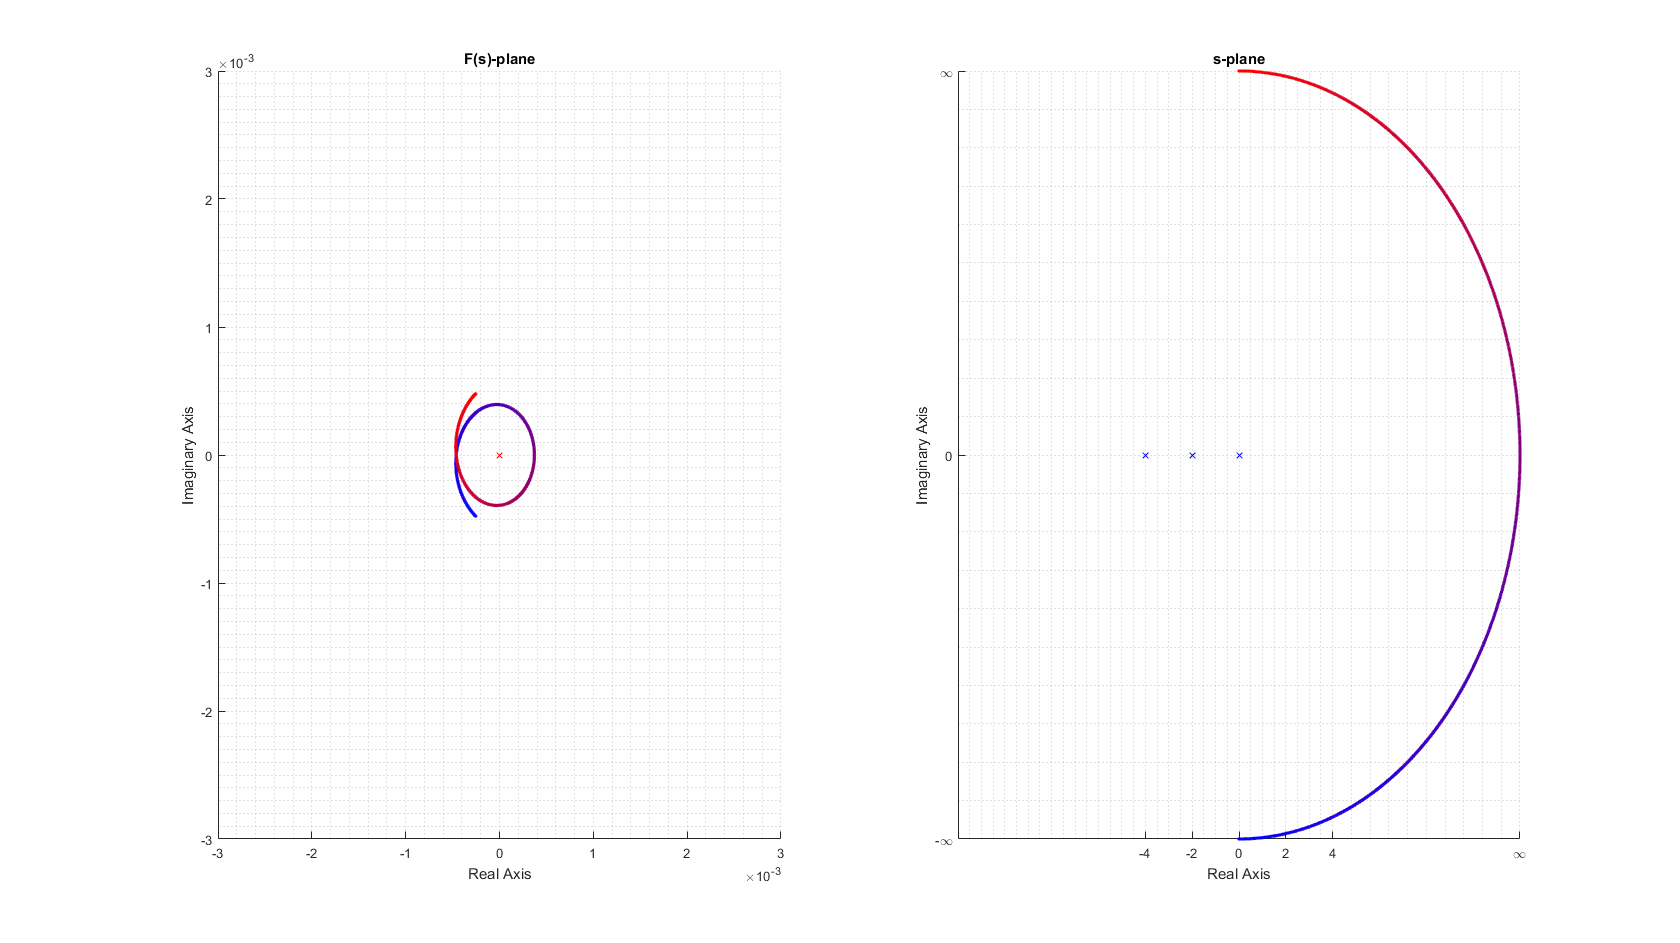
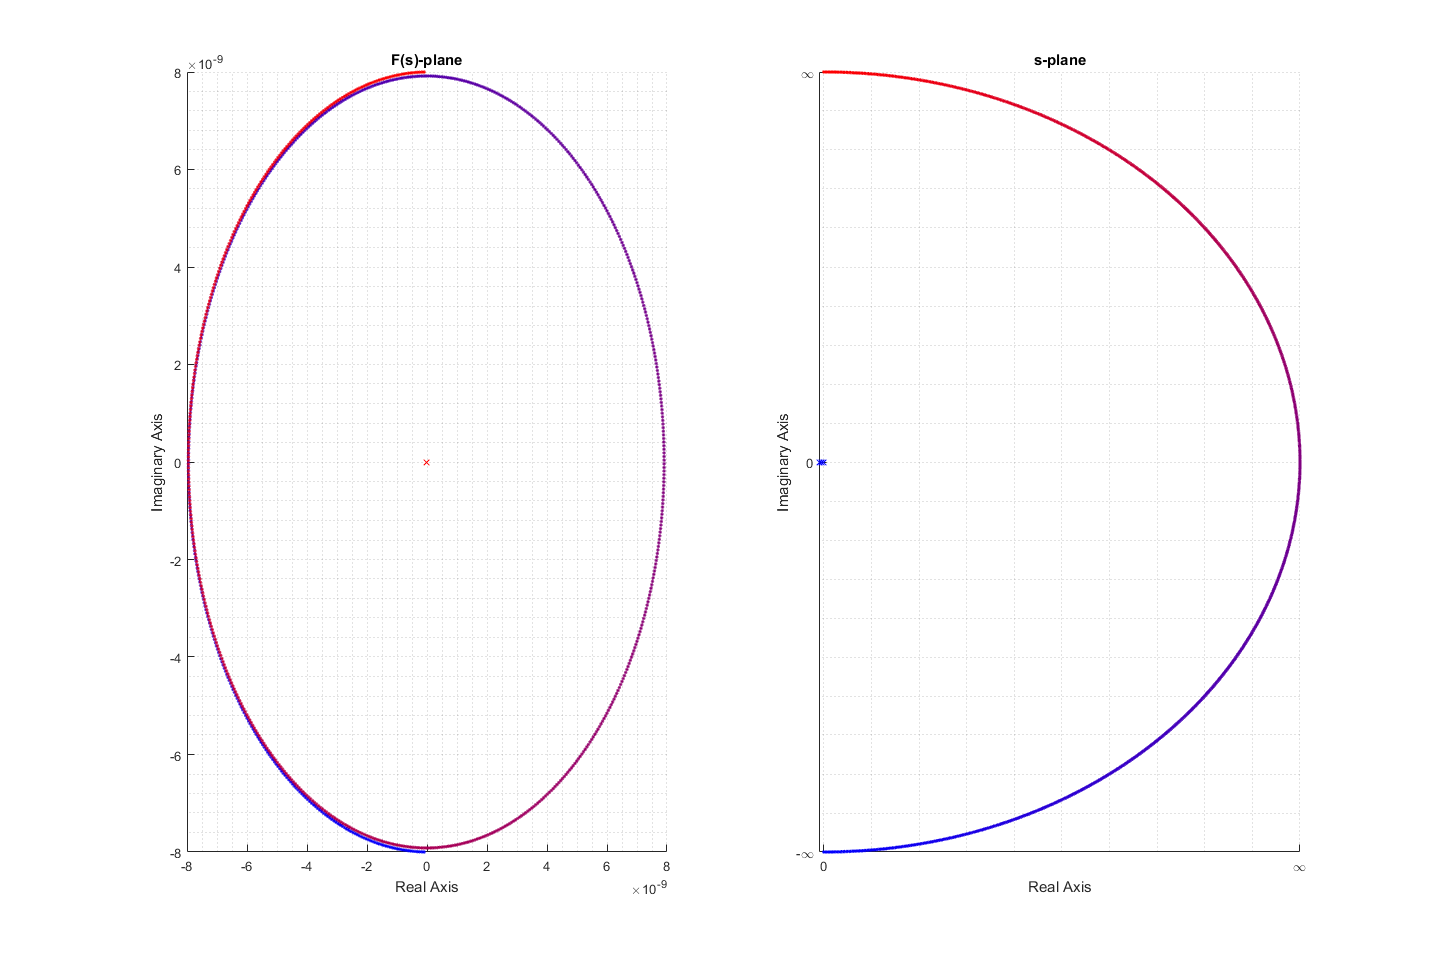
Small updates

diff --git a/nyquist4/nyquist4.m b/nyquist4/nyquist4.m
@@ -2,34 +2,34 @@
 clc; clear all;
 
 s=tf('s');
-theta=linspace(0,pi/2,1000);
 pathS=[];
 pathS1=[];
 pathS2=[];
 pathS3=[];
 pathS4=[];
-for i=1:1000
+theta=linspace(0,pi/2,1000);
+for i=1:length(theta)
     pathS(end+1)=.2*exp(j*theta(i));
     pathS2(end+1)=.2*exp(j*theta(i));
 end
-for i=.2:.002:12
+for i=.2:.1:500
     pathS(end+1)=complex(i*j);
     pathS1(end+1)=complex(i*j);
 end
 % path around infinity
-theta=linspace(pi/2,-pi/2,1000);
+theta=linspace(pi/2,-pi/2,5000);
 for i=1:length(theta)
 %     pathS(i)=5*exp(j*theta(i)) + cos(10*pi*i/length(theta));
-    pathS(end+1)=12*exp(j*theta(i));
-    pathS4(end+1)=12*exp(j*theta(i));
+    pathS(end+1)=500*exp(j*theta(i));
+    pathS4(end+1)=500*exp(j*theta(i));
 end
 % path up from bottom and around pole
-for i=-12:.002:-.2
+for i=-500:.1:-.2
     pathS(end+1)=complex(i*j);
     pathS3(end+1)=complex(i*j);
 end
 theta=linspace(-pi/2,0,1000);
-for i=1:1000
+for i=1:length(theta)
     pathS(end+1)=.2*exp(j*theta(i));
     pathS2(end+1)=.2*exp(j*theta(i));
 end
@@ -40,7 +40,7 @@ pathS2=fliplr(pathS2);
 pathS3=fliplr(pathS3);
 pathS4=fliplr(pathS4);
 
-Gs=1/(s*(s+2)*(s+4));
+Gs=45/(s*(s+2)*(s+4));
 Gs2=Gs;
 
 
@@ -103,7 +103,6 @@ set(gca,'YTick',[-12 0 12])
 set(gca,'YTickLabel',{'-\infty','0','\infty'})
 % quiver(0,0,.1138,.19,'k')
 % text(.04,.04,'r = \epsilon')
-
 %% Portion 2
 pathFs2=polyval(Gs2.num{1}, pathS2)./polyval(Gs2.den{1}, pathS2);
 figure(2);clf; 
@@ -160,7 +159,6 @@ set(gca,'XTick',[-4 -2 0 2 4])
 set(gca,'XTickLabel',{'-4','-2','0' ,'2', '4'})
 set(gca,'YTick',[-12 0 12])
 set(gca,'YTickLabel',{'-\infty','0','\infty'})
-
 %% Portion 3
 pathFs3=polyval(Gs2.num{1}, pathS3)./polyval(Gs2.den{1}, pathS3);
 figure(3);clf; 
@@ -217,7 +215,6 @@ set(gca,'XTick',[-4 -2 0 2 4])
 set(gca,'XTickLabel',{'-4','-2','0' ,'2', '4'})
 set(gca,'YTick',[-12 0 12])
 set(gca,'YTickLabel',{'-\infty','0','\infty'})
-
 %% Portion 4
 pathFs4=polyval(Gs2.num{1}, pathS4)./polyval(Gs2.den{1}, pathS4);
 figure(4);clf; 
@@ -241,8 +238,8 @@ grid minor
 title('F(s)-plane')
 ylabel('Imaginary Axis');
 xlabel('Real Axis');
-ylim([-.003 .003])
-xlim([-.003, .003])
+% ylim([-.003 .003])
+% xlim([-.003, .003])
 % set(gca,'XTick',[0 ])
 % set(gca,'XTickLabel',{'0'})
 % set(gca,'YTick',[-5 0 5])
@@ -268,14 +265,12 @@ plot(complex(roots(Gs2.den{1})),'xb')
 title('s-plane')
 ylabel('Imaginary Axis');
 xlabel('Real Axis');
-ylim([-12,12])
-xlim([-12 12])
-set(gca,'XTick',[-4 -2 0 2 4 12])
-set(gca,'XTickLabel',{'-4','-2','0' ,'2', '4', '\infty'})
-set(gca,'YTick',[-12 0 12])
+ylim([-500,500])
+xlim([-5 500])
+set(gca,'XTick',[ 0  500])
+set(gca,'XTickLabel',{'0' , '\infty'})
+set(gca,'YTick',[-500 0 500])
 set(gca,'YTickLabel',{'-\infty','0','\infty'})
-
-
 %% full nyquist plot
 plotFs(pathS, Gs, 5, 0, 1001)
 
